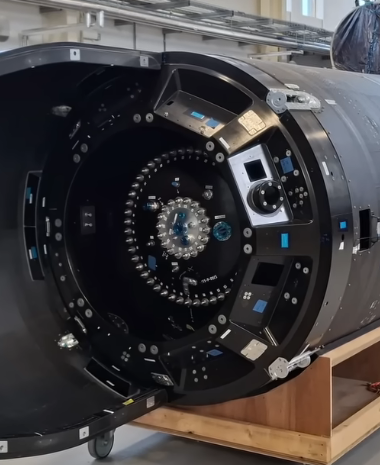
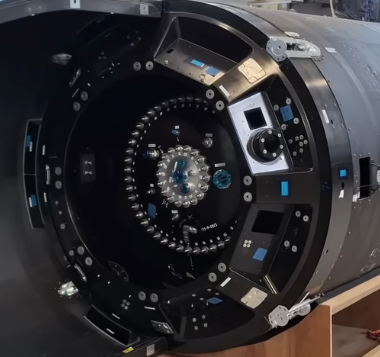
Red Rooster + image update

diff --git a/index.html b/index.html
@@ -23,10 +23,10 @@
               <img src="./assets/images/cawl1.jpg"/>
 					<br/>
 					<br/>
-					<a href="https://store.steampowered.com/app/2863680/ZERO_PARADES_For_Dead_Spies/">
-						<b>Zero Parades</b>
+					<a href="https://summereternal.com/">
+						<b>Red Rooster</b>
 					</a>
-              - I'm annoyed at how good it was...
+              - Currently reading the Summer Eternal Anthology Volume One. I cannot wait for this game to come out.
 					<br/>
 					<br/>
 					<a href="https://store.steampowered.com/app/427520/Factorio/">
@@ -103,8 +103,7 @@
 			<div id="right">
 				<div id="rightbox">
 					<div class="small-title">Work Stuff</div>
-          RIP Orbex <br/>
-          I enjoyed working on PAM
+          RIP Orbex - At least I got to see some cool stuff.
           <div class="image">
 						<img src="./assets/images/PAM.png"/>
 					</div>
